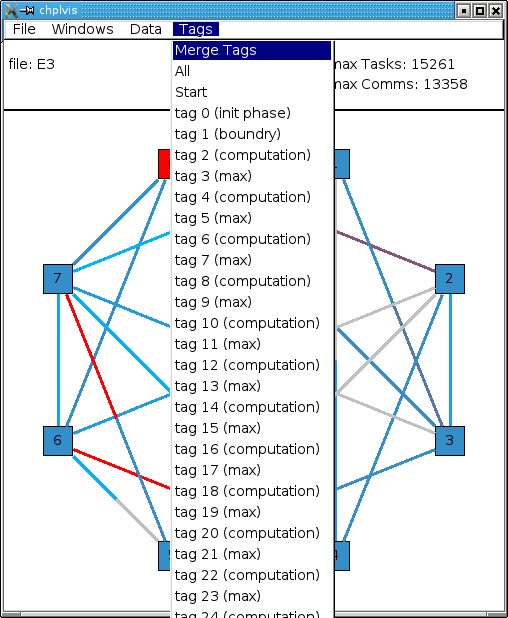
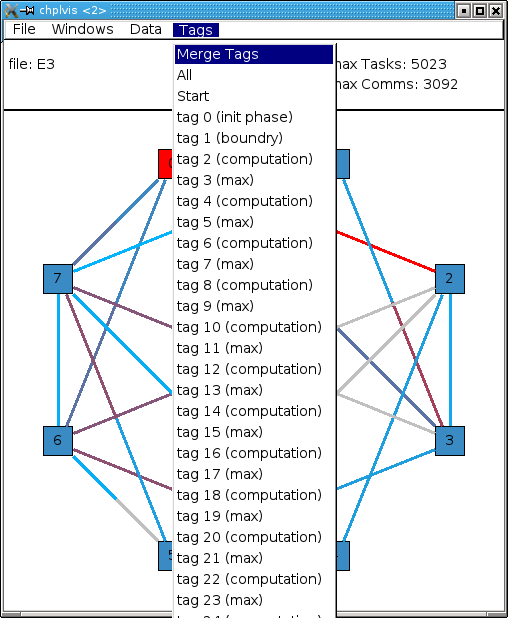
Update to new version of example 3.

diff --git a/doc/chplvis/chplvis.rst b/doc/chplvis/chplvis.rst
@@ -329,10 +329,10 @@ Next, if *tagVdebug()* calls are made inside a loop, it produces a unique tag fo
      tagVdebug("computation");
 
      for t in 1 .. compLoop do {
-       forall (i,j) in R {
+       forall (i,j) in R do
          A(i,j) = Temp(i,j);
+       forall (i,j) in R do
          Temp(i,j) = (A(i-1,j) + A(i+1,j) + A(i,j-1) + A(i,j+1)) / 4.0;
-       }
      }
   
      // tag the reduction part of this loop.
@@ -354,7 +354,7 @@ Next, if *tagVdebug()* calls are made inside a loop, it produces a unique tag fo
 We use *pauseVdebug()* here to make sure chplvis data is generated for
 the parts of the loop of interest.
 
-This example was run with the command line arguments *--n=16 -nl 8".
+This example was run with the command line arguments *--n=8 -nl 8".
 The following shows the default *tags* menu for this run:
 
 .. image:: E3-1.png
